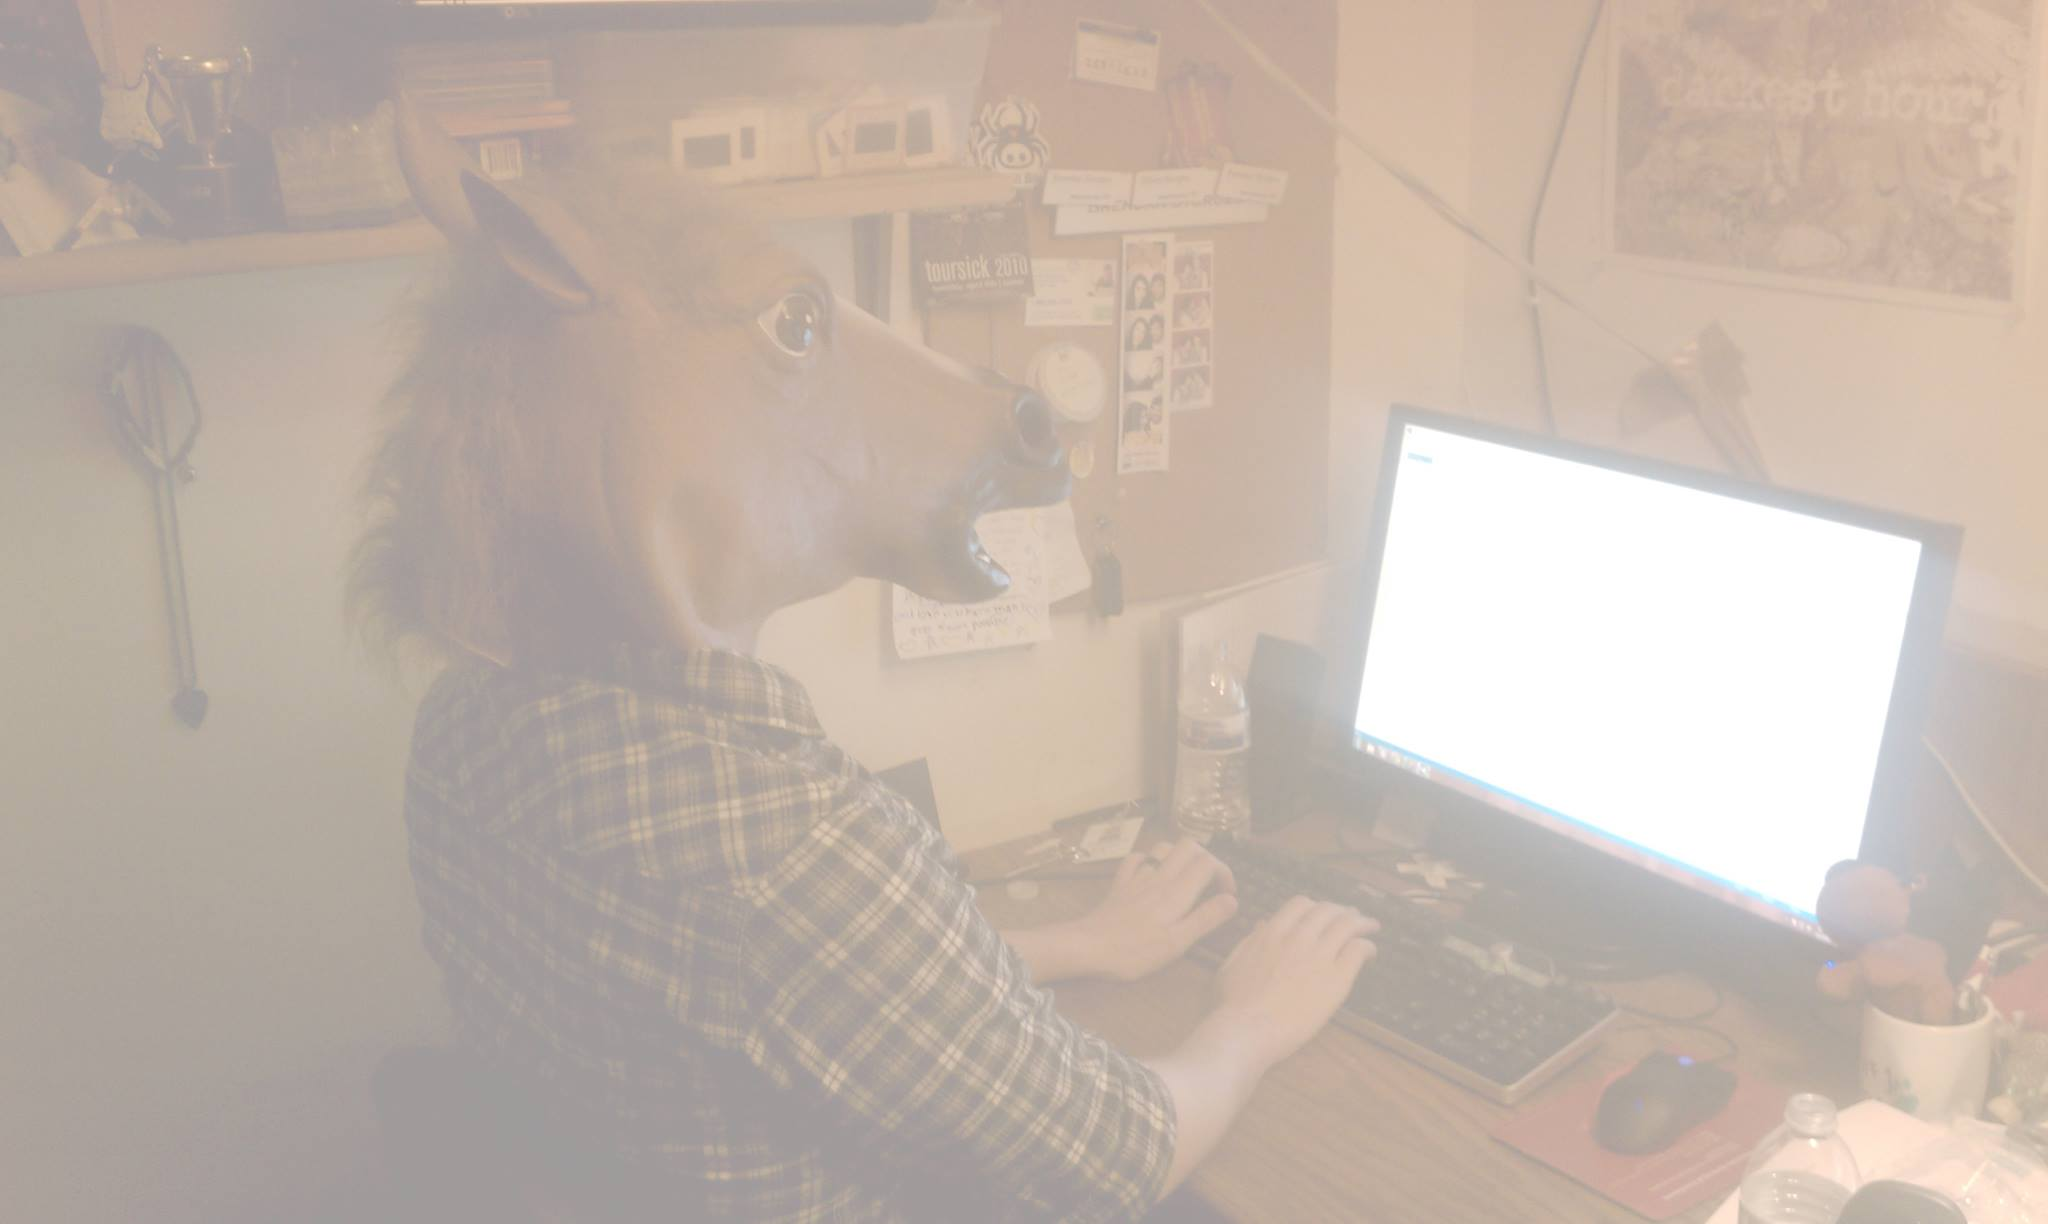
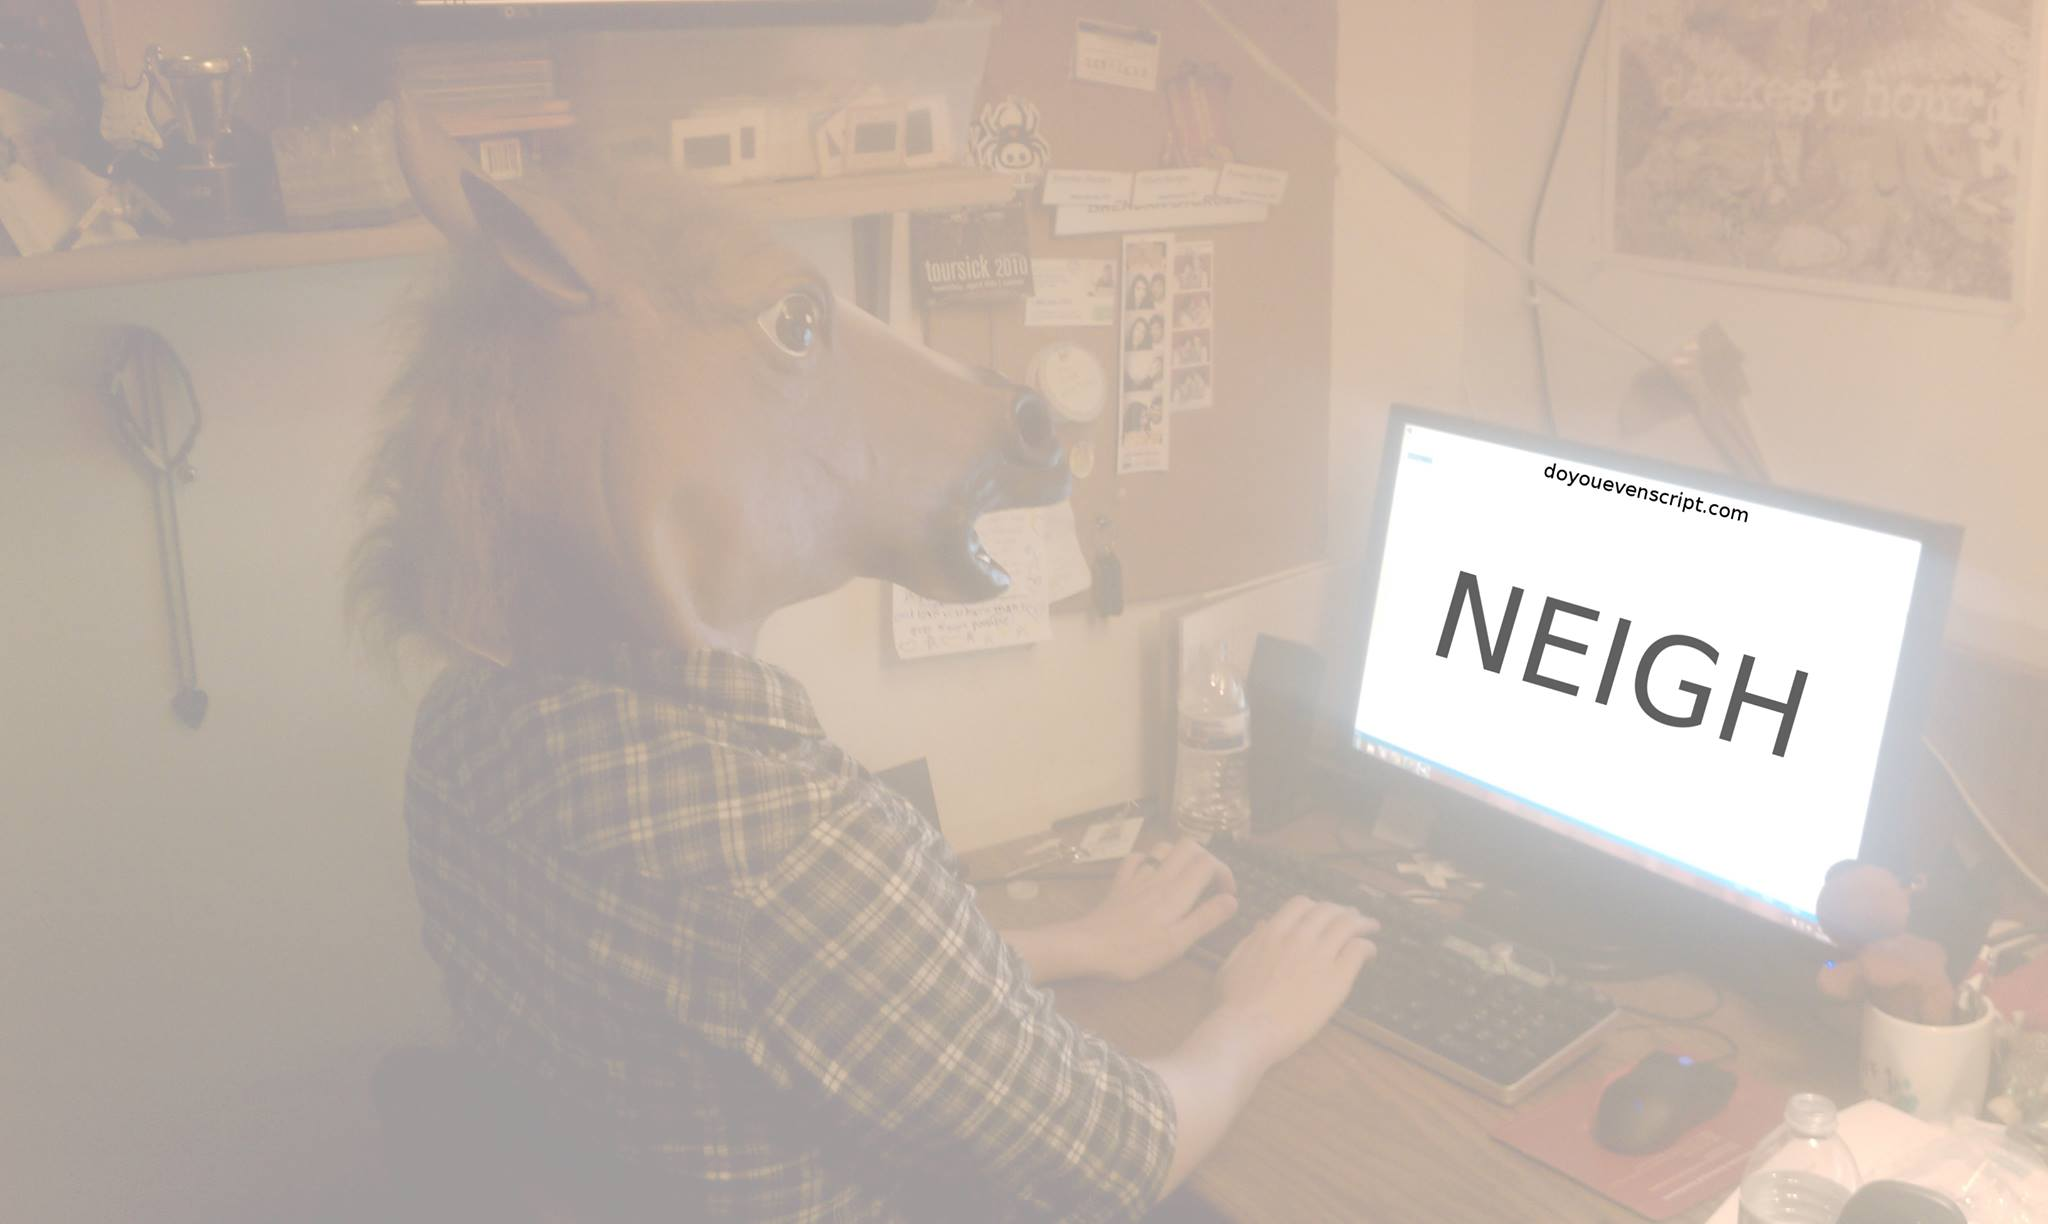
rev2 pushing to prod, I don't need an rfc I am change control

Changed region(s): [[0.6875, 0.4657, 0.9062, 0.6209], [0.75, 0.3725, 0.8125, 0.4036], [0.8125, 0.4036, 0.8438, 0.4346]]

diff --git a/index.html b/index.html
@@ -2,14 +2,10 @@
 <html lang="en">
 	<head>
 		<meta charset="utf-8">
-		<title>internets</title>
+		<title>i am trapped in a web browser if you can read this please send help</title>
 	</head>
 
-	<body background="horsecodewhitewash.jpg">
-		
-		<center>
-			<h3>No, you don't</h3>
-		</center>
-	</body>
+	<body background="horsecodewhitewash.jpg" />
+
 	<!- AINT NOBODY GOT TIME FOR READING COMMENTS -!>
 </html>
